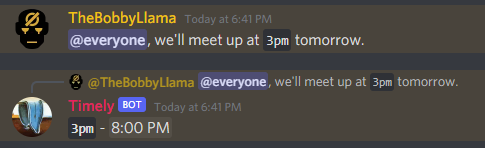
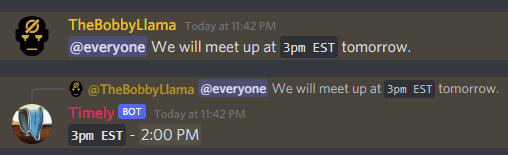
Updated documentation page for clarity.

Changed region(s): [[0.0309, 0.0541, 0.8041, 0.3784], [0.0619, 0.4865, 0.9897, 0.6486], [0.0, 0.6486, 0.4948, 0.9459]]

diff --git a/docs/index.html b/docs/index.html
@@ -15,13 +15,13 @@
 		<section>
 			<h2>What is Timely?</h2>
 			<p>
-				Timely is a <a href="https://discord.com/" target="_blank">Discord</a> bot for converting times for users across the world using Discord's <a href="https://hammertime.djdavid98.art/" target="_blank">timestamp</a> feature.  All you have to do to start using the bot is mark the time as code using backticks (<code>`</code>).
+				Timely is a <a href="https://discord.com/" target="_blank">Discord</a> bot for converting times for users across the world using Discord's <a href="https://hammertime.djdavid98.art/" target="_blank">timestamp</a> feature.  All you have to do to start using the bot is mark the time as code using backticks (<code>`</code>), and it will reply with the time converted into a timestamp that anyone will see in the proper local time.
 			</p>
 			<aside>
 				<div id="bot-demo"></div>
 			</aside>
 			<p>
-				The bot may be used without any other configuration if you supply local time when writing a time - <i>e.g.</i> <code>3:30 PM EST</code>, <code>8:30 PDT</code>, <code>13:00 UTC</code>, <code>1AM (London)</code>, <code>12:30 Vancouver</code>and so on.  You can tag as many time entries as you like in a post and Timely will convert them all.
+				The bot may be used without any other configuration if you supply local time information when writing a time - <i>e.g.</i> <code>3:30 PM EST</code>, <code>8:30 PDT</code>, <code>13:00 UTC</code>, <code>1AM (London)</code>, <code>12:30 Vancouver</code> and so on.  You can tag as many time entries as you like in a post and Timely will convert them all.
 			</p>
 			<aside id="showHideHolder" class="hideMe">
 				<button type="button" id="showHide">Show Supported Local Times</button>

diff --git a/docs/assets/css/style.css b/docs/assets/css/style.css
@@ -172,8 +172,8 @@ section:hover h2::after {
 
 #bot-demo {
 	background-image: url('../images/bot-demo.png');
-	height: 148px;
-	width: 485px;
+	height: 155px;
+	width: 508px;
 }
 
 #config-blank {
